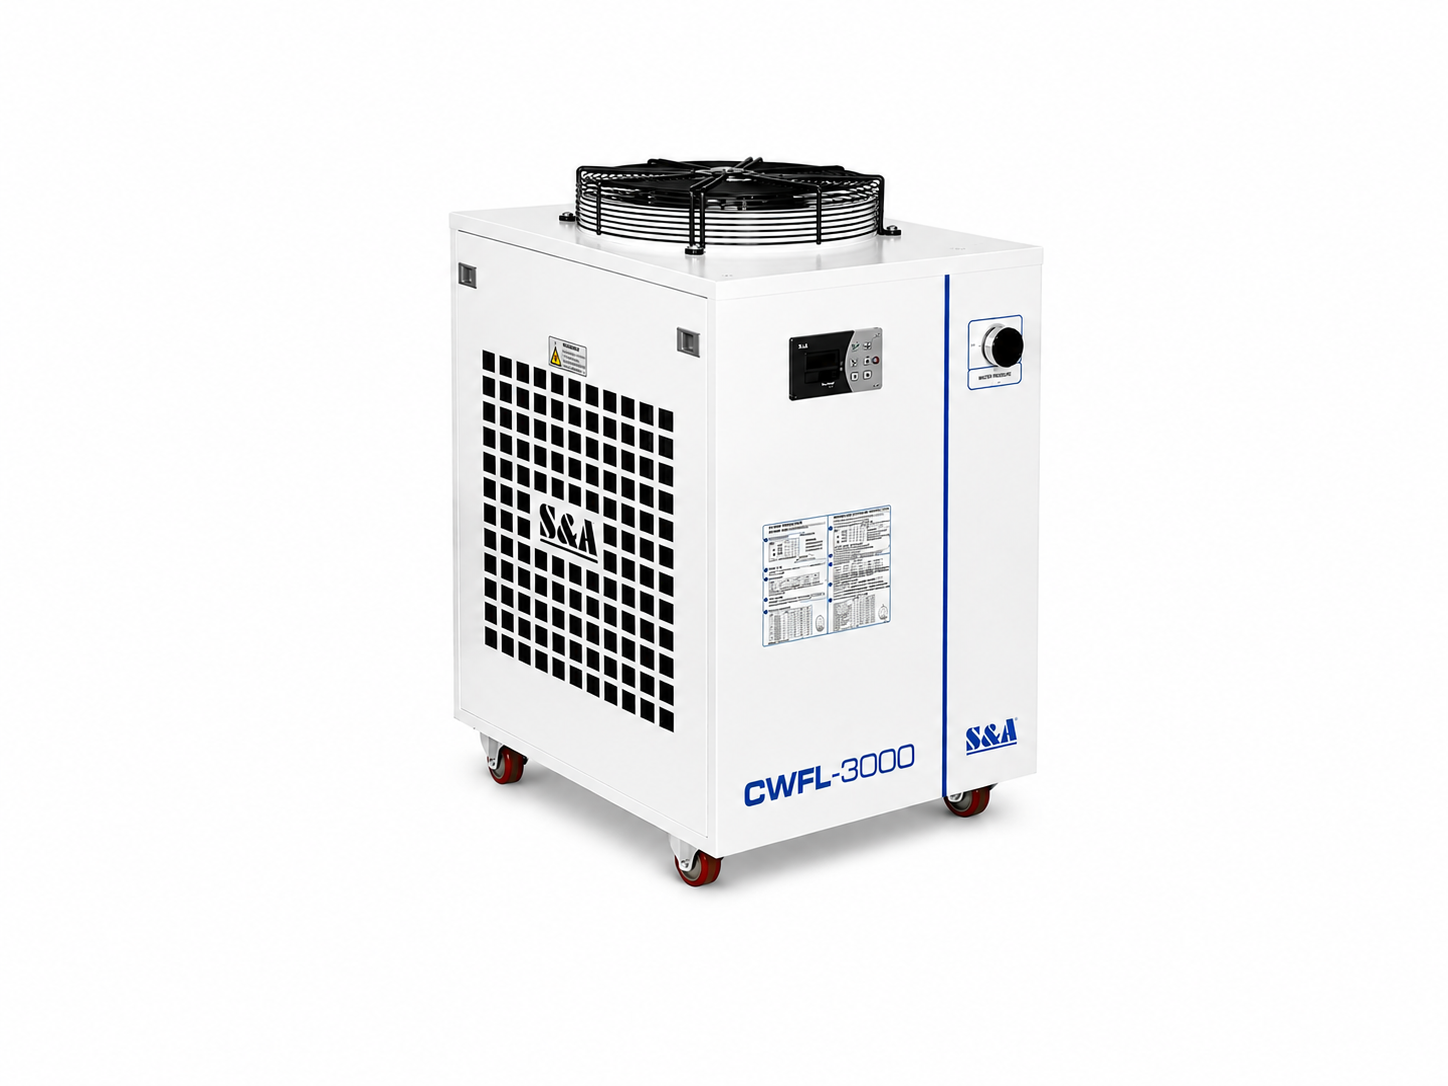
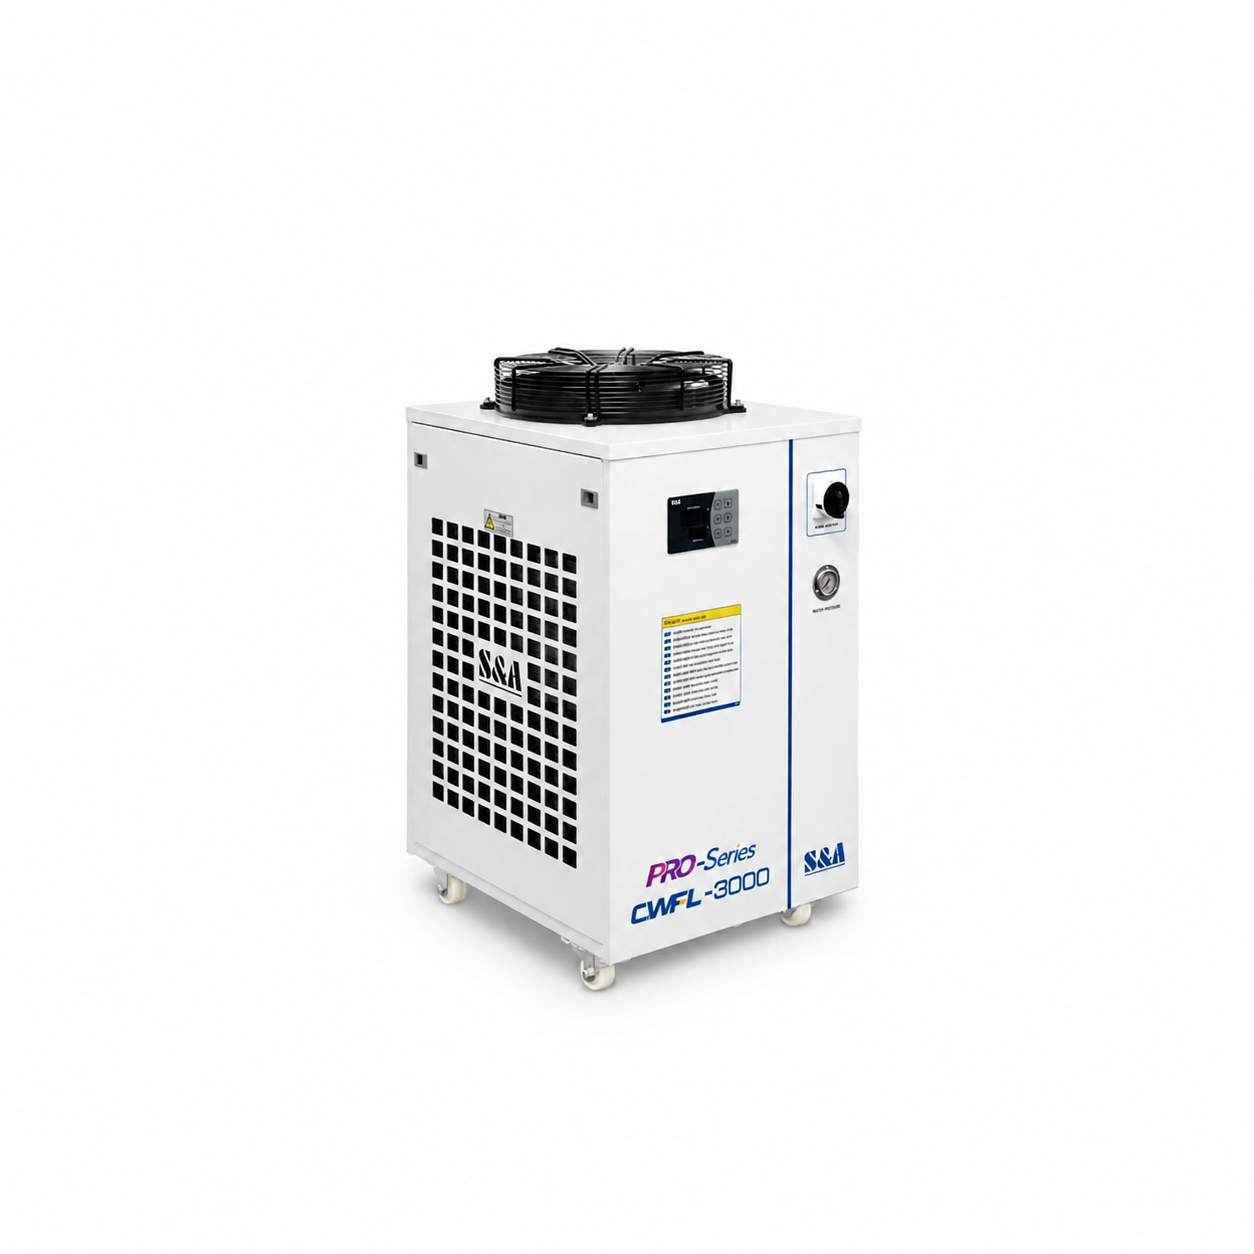
add 13 products add

Changed region(s): [[0.311, 0.1215, 0.7153, 0.8204], [0.311, 0.2127, 0.3421, 0.2735]]

diff --git a/src/data/products.js b/src/data/products.js
@@ -272,10 +272,10 @@ export const PRODUCTS = [
   },
   {
     id: "prod-14",
-    name: "Servo Motor",
-    category: "WSX Laser Cutting Head",
+    name: "PRO- Series CWFL-3000",
+    category: "1.5kw to 12kw available",
     compatibleBrands: ["Friendess", "Han's Laser", "Yaskawa", "Panasonic"],
-    shortDesc: "High response AC servo motor & amplifier drive for CNC gantry X/Y/Z motion control.",
+    shortDesc: "Essential cooling system removes laser heat, ensuring beam quality, cutting accuracy, and machine longevity.",
     fullDesc: "Industrial high precision AC servo motor with 24-bit absolute encoder. Delivers rapid acceleration, smooth torque output, and millisecond positioning accuracy for laser machine gantries.",
     badge: "High Performance",
     pricePlaceholder: "₹ 18,500 - ₹ 65,000 / Motor",

diff --git a/src/data/images.js b/src/data/images.js
@@ -28,7 +28,7 @@ const baseProductImages = {
   'prod-11': 'Product/SMC_10_bar_components_refer_to_a_broad.png',
   'prod-12': 'Product/Raytools Wireless Handheld Remote Controller.png',
   'prod-13': 'Product/Raytools CNC Wireless Remote Controller.png',
-  'prod-14': '',
+  'prod-14': 'Product/Pro-Series CWFL - 3000.jpeg',
   'prod-15': '',
   'prod-16': '',
   'prod-17': '',
